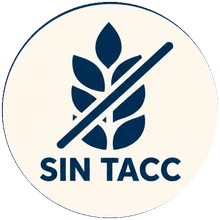
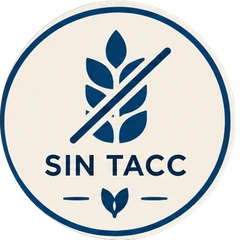
Sellos: los originales, recortados por circulo y un poco mas chicos en la ficha

diff --git a/index.html b/index.html
@@ -745,13 +745,13 @@ textarea.co-input{resize:vertical;min-height:60px;font-family:inherit}
 .product-detail-sellos .sello-d{display:block;padding:0;border:0;background:none;
   border-radius:50%;cursor:pointer;line-height:0;
   transition:transform .15s ease,box-shadow .15s ease}
-.product-detail-sellos .sello-d img{width:92px;height:92px;display:block;object-fit:contain}
+.product-detail-sellos .sello-d img{width:84px;height:84px;display:block;object-fit:contain}
 .product-detail-sellos .sello-d:hover{transform:translateY(-2px);
   box-shadow:0 4px 14px rgba(20,45,70,.18)}
 .product-detail-sellos .sello-d:focus-visible{outline:2px solid var(--azul);outline-offset:3px}
 @media(max-width:767px){
   .product-detail-sellos{gap:10px}
-  .product-detail-sellos .sello-d img{width:80px;height:80px}
+  .product-detail-sellos .sello-d img{width:74px;height:74px}
 }
 @media(prefers-reduced-motion:reduce){
   .product-detail-sellos .sello-d{transition:none}
